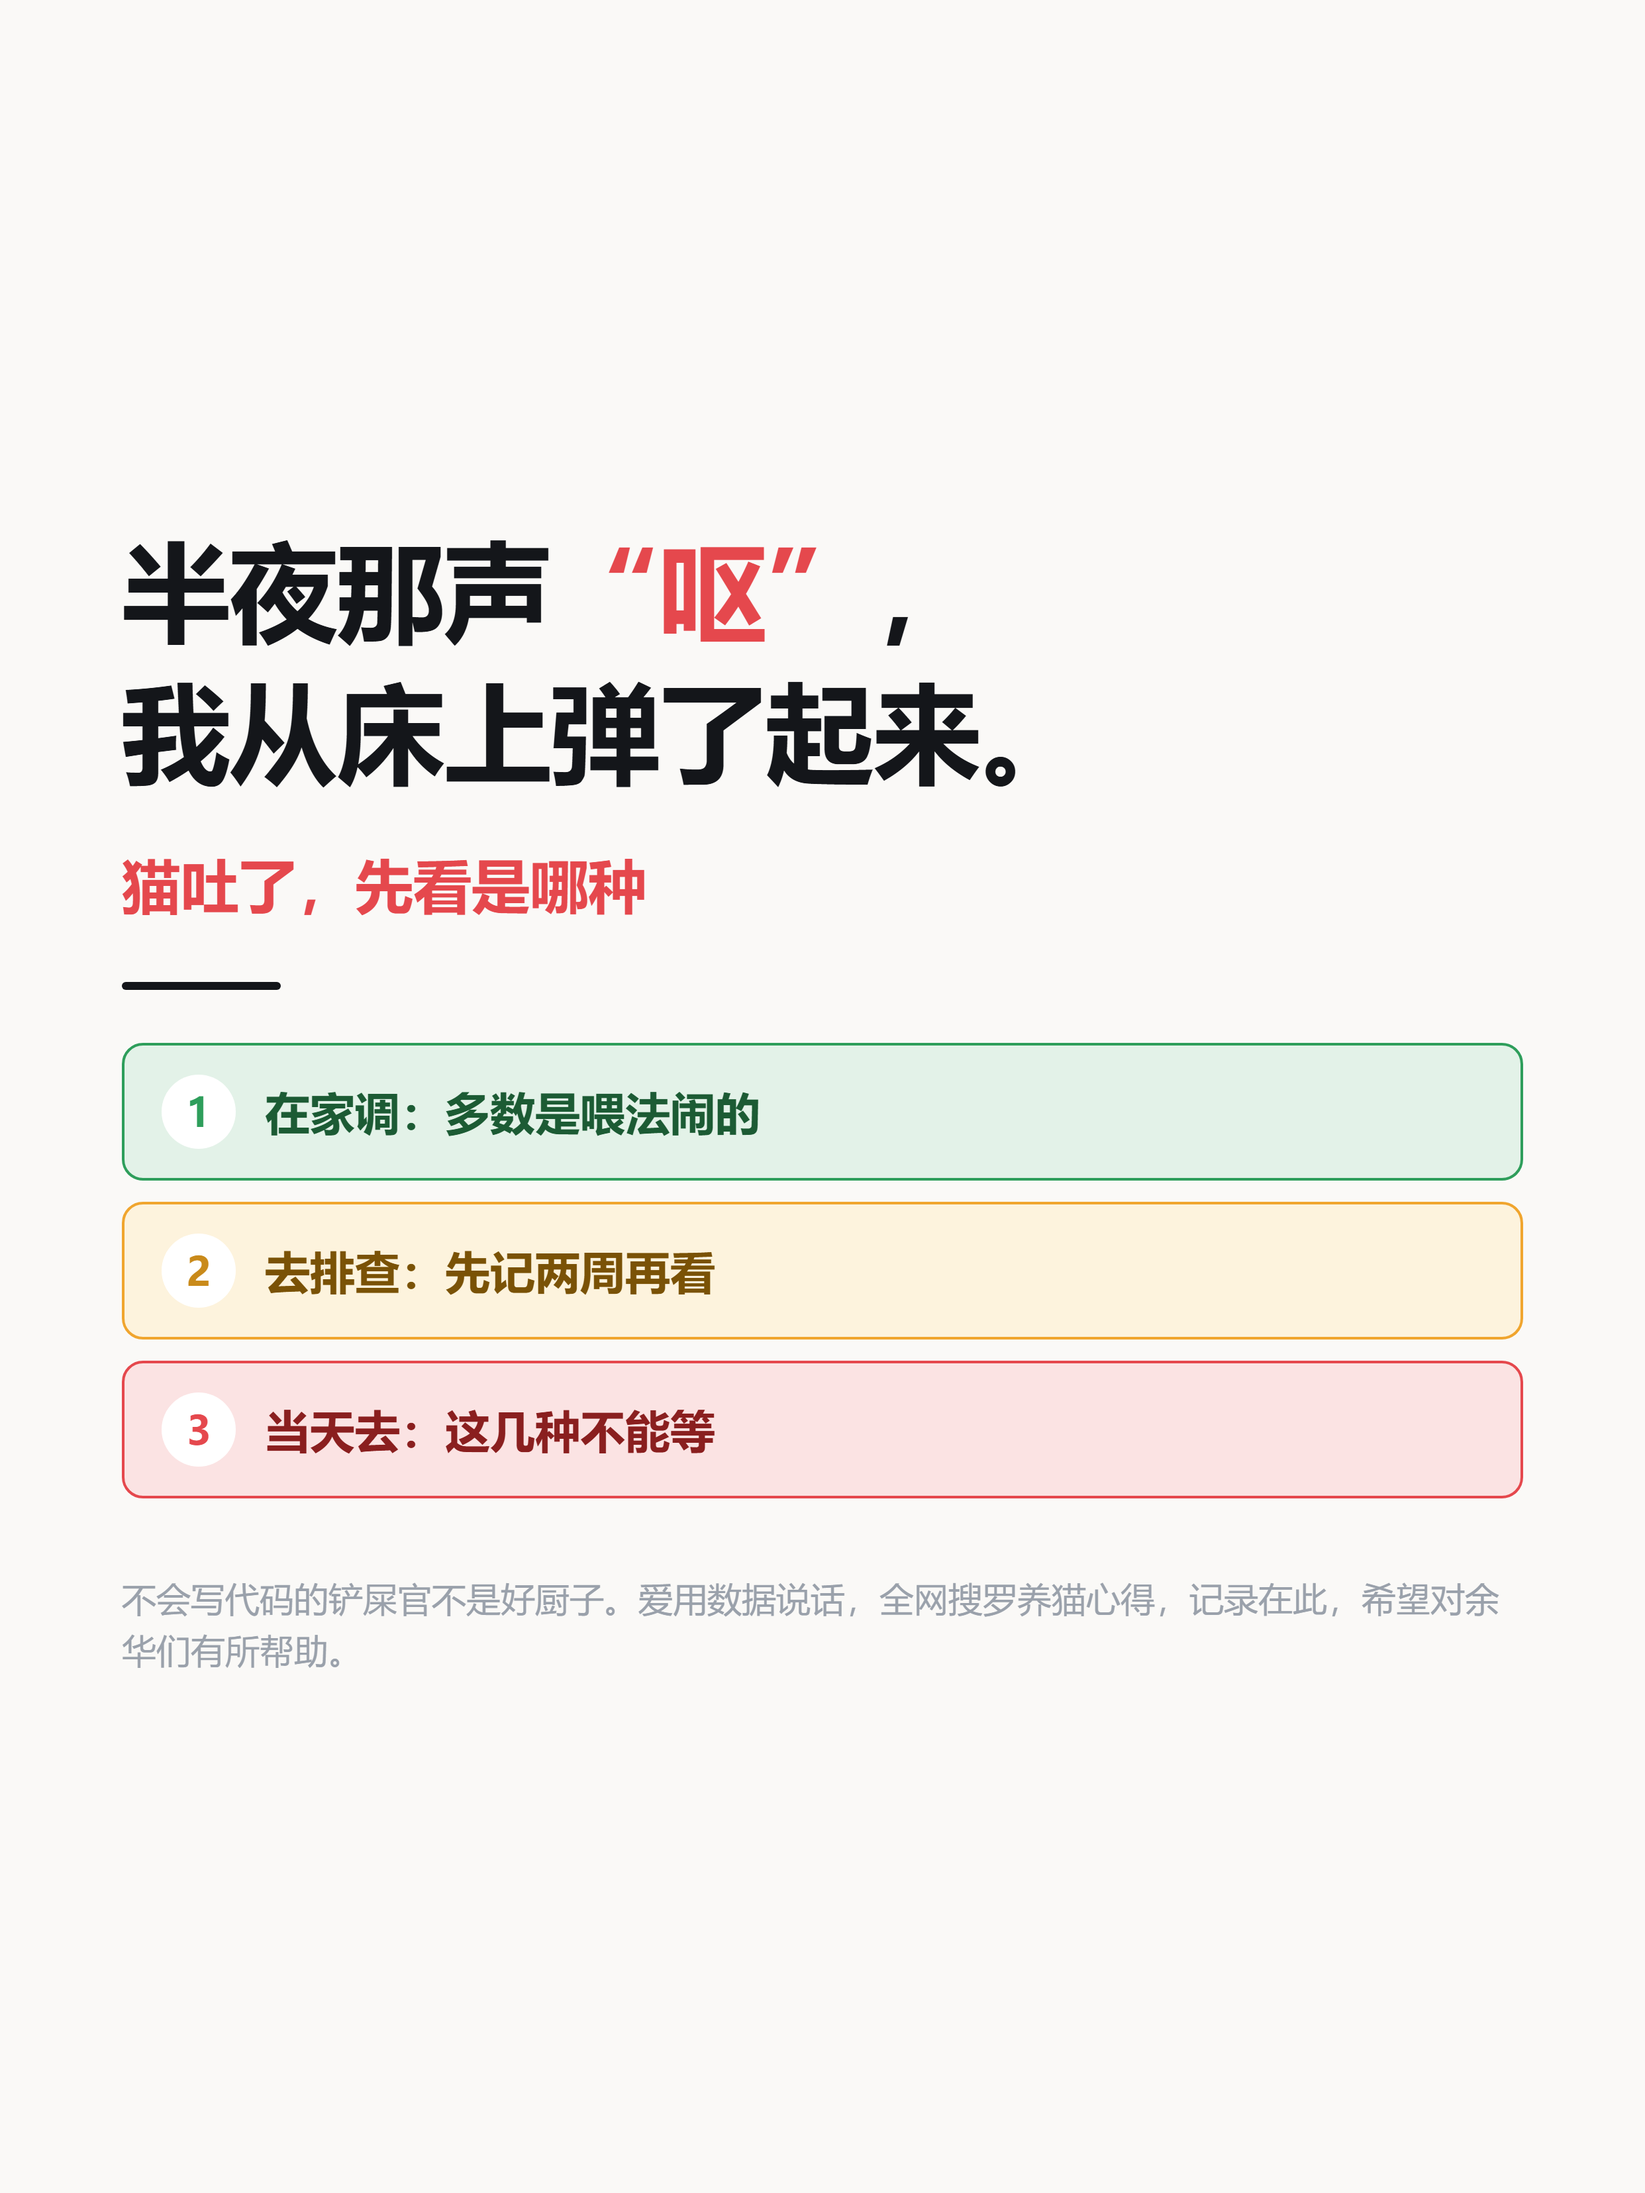
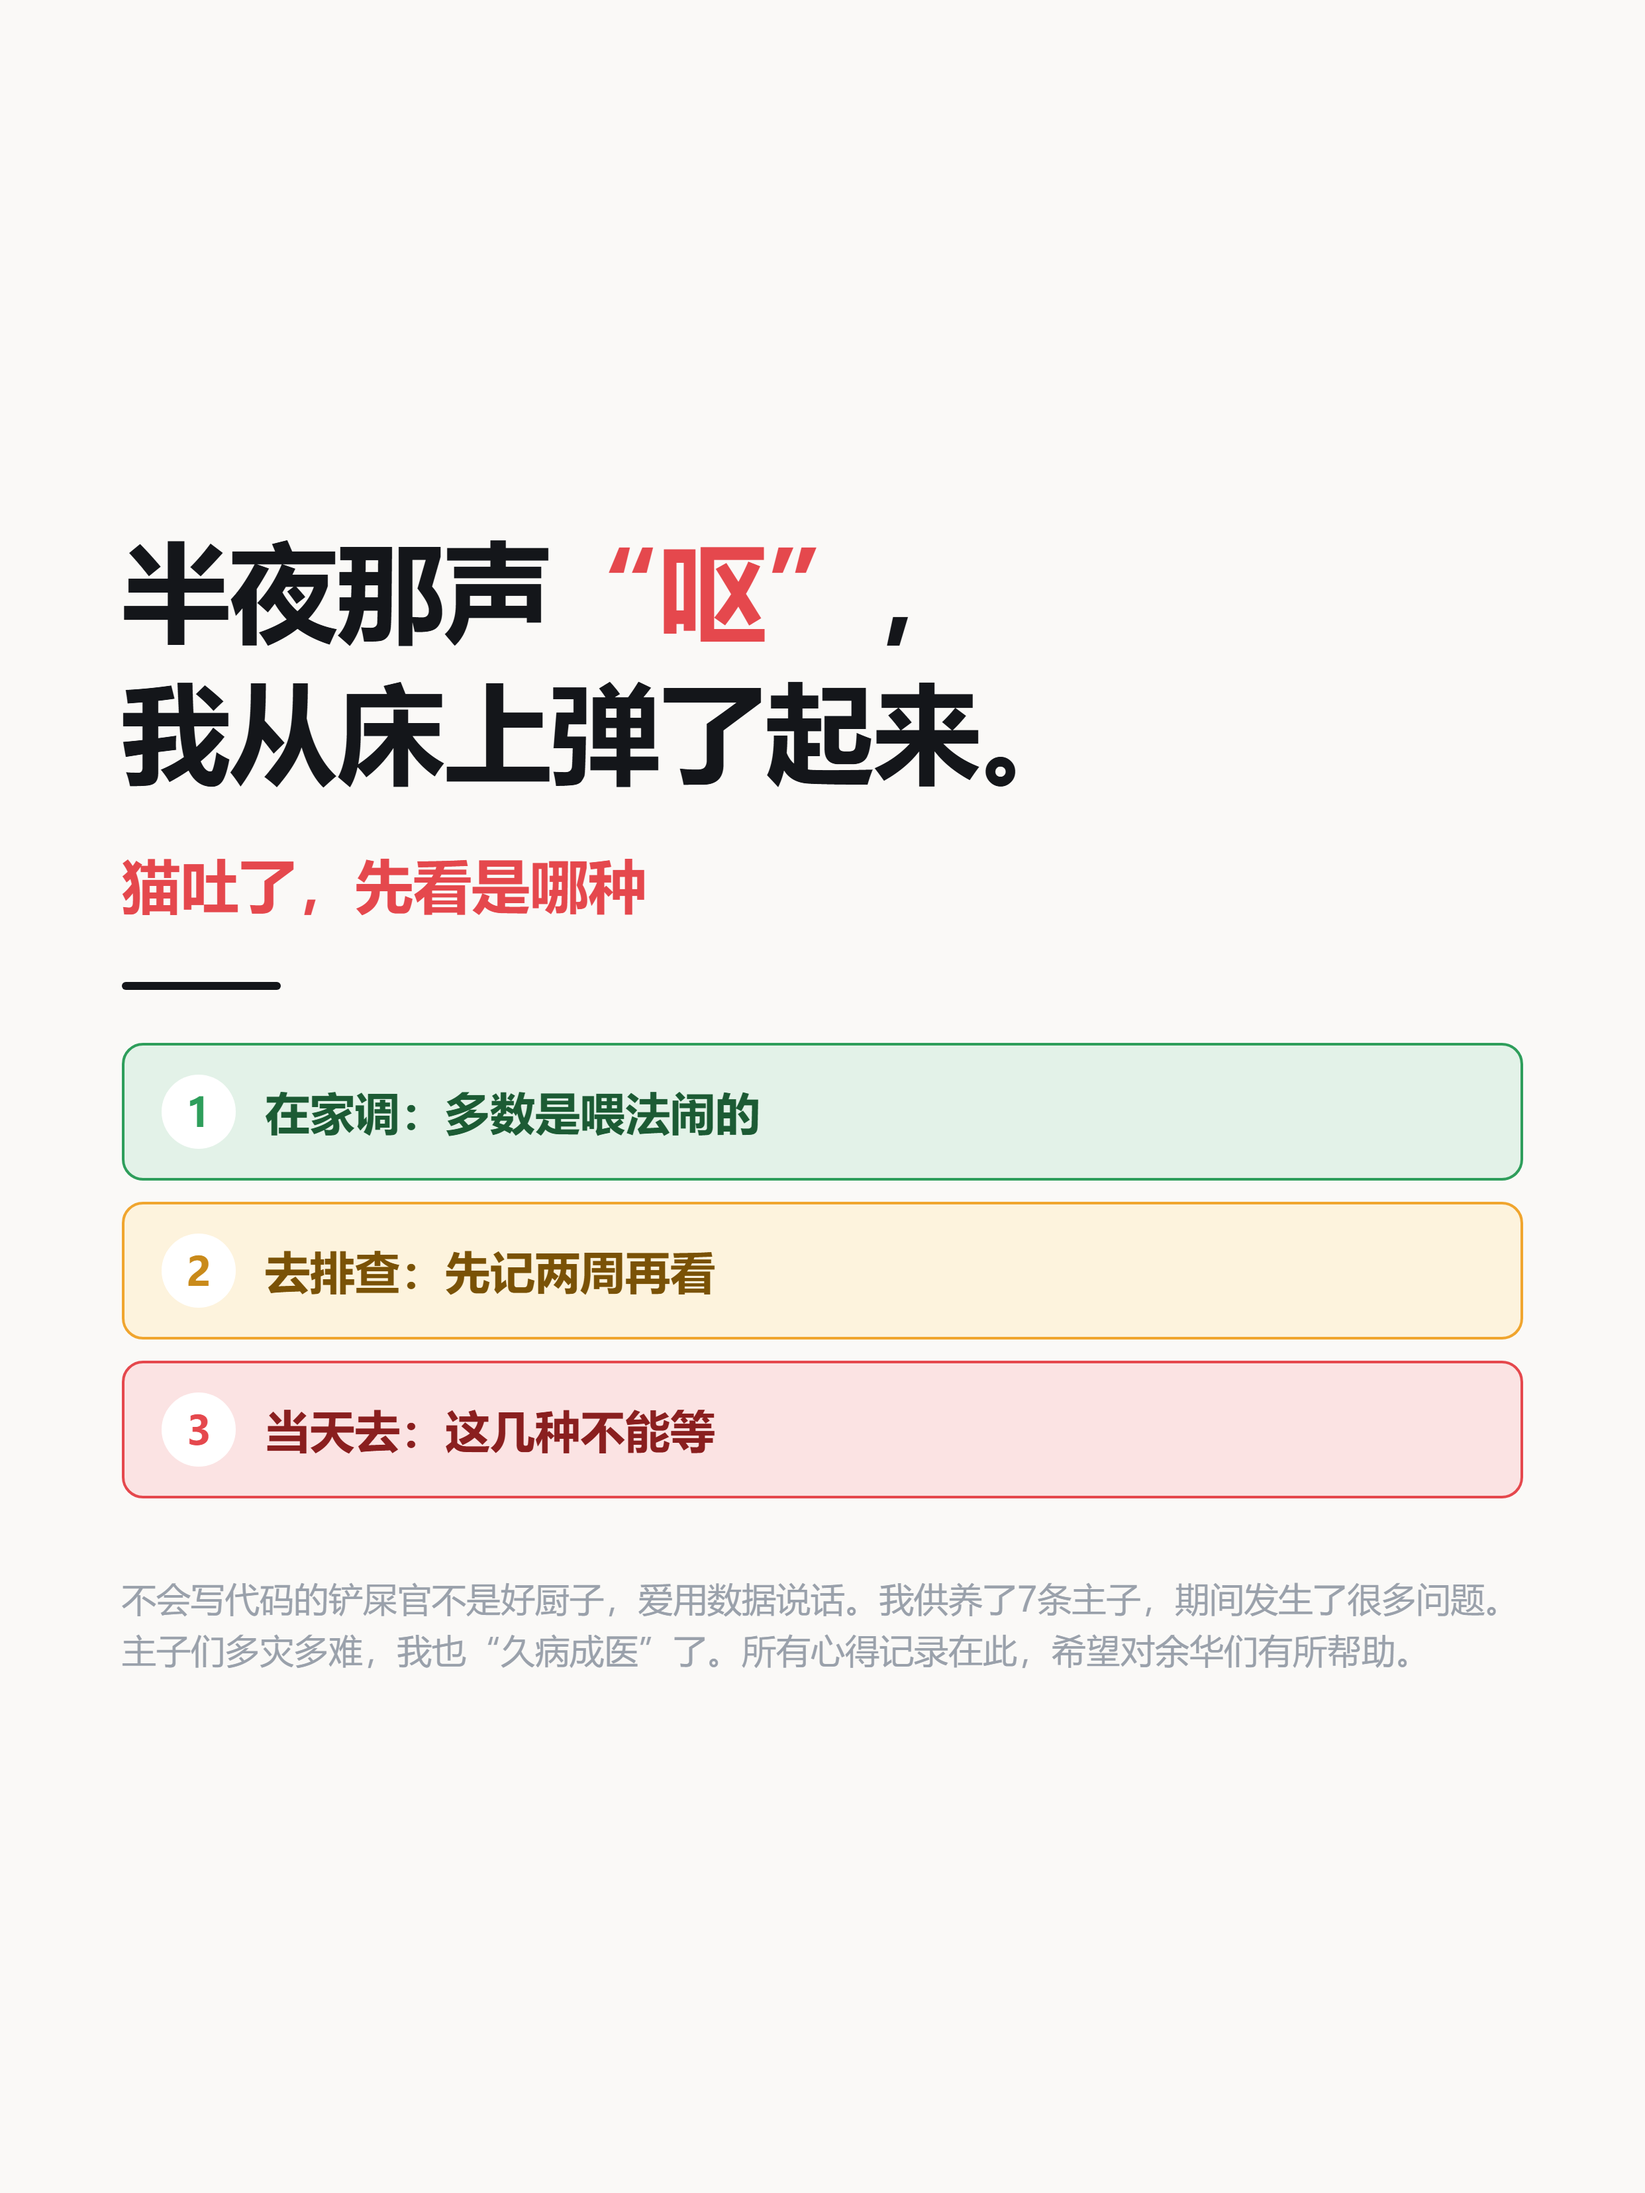
产出：人设落款换新版（7条主子/久病成医）——01/02/03三个主题共18处替换，15张图重截；落款固定放首页情绪图最下方；技能升v2.5.0

diff --git a/40-产出/主题/猫病症自查百科/成果物/02-不吃东西/定稿/二期/二期2-挑食还是恶心.html b/40-产出/主题/猫病症自查百科/成果物/02-不吃东西/定稿/二期/二期2-挑食还是恶心.html
@@ -38,5 +38,5 @@ h1 em { font-style:normal; color:#e5484d; }
   </div>
 
   <div class="note"><b>一句话分法：</b>挑食是“不认这一份”，换一样它就吃；恶心是“想吃但吃不下”，换什么它都不动。<br>拿不准就拍段视频，去医院给医生看，比你嘴上形容准多了。</div>
-  <div class="src">出处：《猫病学》第 5 版 第 1 篇“病与症”第 10 条「厌食」｜不会写代码的铲屎官不是好厨子。症状不等于诊断，最终由兽医排查。</div>
+  <div class="src">出处：《猫病学》第 5 版 第 1 篇“病与症”第 10 条「厌食」｜不会写代码的铲屎官不是好厨子，爱用数据说话。我供养了7条主子，期间发生了很多问题。主子们多灾多难，我也“久病成医”了。所有心得记录在此，希望对余华们有所帮助。｜症状不等于诊断，最终由兽医排查。</div>
 </body></html>

diff --git a/40-产出/主题/猫病症自查百科/成果物/03-软便/定稿/二期/二期2-软便还是真腹泻.html b/40-产出/主题/猫病症自查百科/成果物/03-软便/定稿/二期/二期2-软便还是真腹泻.html
@@ -38,5 +38,5 @@ h1 em { font-style:normal; color:#e5484d; }
   </div>
 
   <div class="note"><b>一句话分法：</b>软便还有形状、精神照旧；真腹泻没形状、水分多，而且往往精神也跟着垮。<br>分不清就拍张照，去医院给医生看，比你嘴上形容准多了。</div>
-  <div class="src">出处：《猫病学》第 5 版 第 1 篇“病与症”第 55 条「腹泻」｜不会写代码的铲屎官不是好厨子。症状不等于诊断，最终由兽医排查。</div>
+  <div class="src">出处：《猫病学》第 5 版 第 1 篇“病与症”第 55 条「腹泻」｜不会写代码的铲屎官不是好厨子，爱用数据说话。我供养了7条主子，期间发生了很多问题。主子们多灾多难，我也“久病成医”了。所有心得记录在此，希望对余华们有所帮助。｜症状不等于诊断，最终由兽医排查。</div>
 </body></html>

diff --git a/40-产出/主题/猫病症自查百科/成果物/01-吐了/定稿/二期/二期2-吐咳反流.html b/40-产出/主题/猫病症自查百科/成果物/01-吐了/定稿/二期/二期2-吐咳反流.html
@@ -70,6 +70,6 @@
   </div>
 
   <div class="note"><b>还有第三种：反流。</b>刚吃完就出来，没有“呕”的动作，是食道的事，也不是胃。<br>拿不准就录段视频，去医院给医生看，比你嘴上形容准多了。</div>
-  <div class="src">出处：《猫病学》第 5 版 第 1 篇“病与症”第 236 条「呕吐」｜不会写代码的铲屎官不是好厨子。症状不等于诊断，最终由兽医排查。</div>
+  <div class="src">出处：《猫病学》第 5 版 第 1 篇“病与症”第 236 条「呕吐」｜不会写代码的铲屎官不是好厨子，爱用数据说话。我供养了7条主子，期间发生了很多问题。主子们多灾多难，我也“久病成医”了。所有心得记录在此，希望对余华们有所帮助。｜症状不等于诊断，最终由兽医排查。</div>
 </body>
 </html>

diff --git a/40-产出/主题/猫病症自查百科/成果物/02-不吃东西/定稿/一期/一期4-六个自测.html b/40-产出/主题/猫病症自查百科/成果物/02-不吃东西/定稿/一期/一期4-六个自测.html
@@ -31,6 +31,6 @@ h1 em { font-style:normal; color:#e5484d; }
 
   <div class="src">
     <b>出处：</b>《2026 iCatCare 猫慢性肾病诊断与管理共识指南》（JFMS 2026）第 5、8 节；《猫病学》第 5 版 第 1 篇“病与症”第 10 条「厌食」。<br>
-    不会写代码的铲屎官不是好厨子。内容按文献底表整理；症状不等于诊断，最终由兽医排查。
+    不会写代码的铲屎官不是好厨子，爱用数据说话。我供养了7条主子，期间发生了很多问题。主子们多灾多难，我也“久病成医”了。所有心得记录在此，希望对余华们有所帮助。｜内容按文献底表整理；症状不等于诊断，最终由兽医排查。
   </div>
 </body></html>

diff --git a/40-产出/主题/猫病症自查百科/成果物/02-不吃东西/定稿/一期/一期0-情绪封面.html b/40-产出/主题/猫病症自查百科/成果物/02-不吃东西/定稿/一期/一期0-情绪封面.html
@@ -27,5 +27,5 @@ body { font-family:"Microsoft YaHei","PingFang SC","Source Han Sans SC",sans-ser
     <div class="blk a"><div class="n">2</div><div>记三天：拍下来带给医生</div></div>
     <div class="blk r"><div class="n">3</div><div>当天去：连水不喝就别等</div></div>
   </div>
-  <div class="who">不会写代码的铲屎官不是好厨子。爱用数据说话，全网搜罗养猫心得，记录在此，希望对余华们有所帮助。</div>
+  <div class="who">不会写代码的铲屎官不是好厨子，爱用数据说话。我供养了7条主子，期间发生了很多问题。主子们多灾多难，我也“久病成医”了。所有心得记录在此，希望对余华们有所帮助。</div>
 </body></html>

diff --git a/40-产出/主题/猫病症自查百科/成果物/03-软便/定稿/一期/一期0-情绪封面.html b/40-产出/主题/猫病症自查百科/成果物/03-软便/定稿/一期/一期0-情绪封面.html
@@ -26,5 +26,5 @@ body { font-family:"Microsoft YaHei","PingFang SC","Source Han Sans SC",sans-ser
     <div class="blk a"><div class="n">2</div><div>记下来：拍照、数次数</div></div>
     <div class="blk r"><div class="n">3</div><div>当天去：带血、幼猫不长个</div></div>
   </div>
-  <div class="who">不会写代码的铲屎官不是好厨子。爱用数据说话，全网搜罗养猫心得，记录在此，希望对余华们有所帮助。</div>
+  <div class="who">不会写代码的铲屎官不是好厨子，爱用数据说话。我供养了7条主子，期间发生了很多问题。主子们多灾多难，我也“久病成医”了。所有心得记录在此，希望对余华们有所帮助。</div>
 </body></html>

diff --git a/40-产出/主题/猫病症自查百科/成果物/01-吐了/定稿/一期/一期0-情绪封面.html b/40-产出/主题/猫病症自查百科/成果物/01-吐了/定稿/一期/一期0-情绪封面.html
@@ -27,5 +27,5 @@ body { font-family:"Microsoft YaHei","PingFang SC","Source Han Sans SC",sans-ser
     <div class="blk a"><div class="n">2</div><div>去排查：先记两周再看</div></div>
     <div class="blk r"><div class="n">3</div><div>当天去：这几种不能等</div></div>
   </div>
-  <div class="who">不会写代码的铲屎官不是好厨子。爱用数据说话，全网搜罗养猫心得，记录在此，希望对余华们有所帮助。</div>
+  <div class="who">不会写代码的铲屎官不是好厨子，爱用数据说话。我供养了7条主子，期间发生了很多问题。主子们多灾多难，我也“久病成医”了。所有心得记录在此，希望对余华们有所帮助。</div>
 </body></html>

diff --git a/40-产出/主题/猫病症自查百科/成果物/02-不吃东西/定稿/二期/二期5-你管它叫什么.html b/40-产出/主题/猫病症自查百科/成果物/02-不吃东西/定稿/二期/二期5-你管它叫什么.html
@@ -28,5 +28,5 @@ h1 em { font-style:normal; color:#e5484d; }
 <div class="grp"><div class="gl">网上的说法</div><div class="chips"><span class="chip c3">拒碗</span><span class="chip c3">绝食抗议</span><span class="chip c3">饭来张口失败</span></div></div>
   </div>
 
-  <div class="who">不会写代码的铲屎官不是好厨子。爱用数据说话，全网搜罗养猫心得，记录在此，希望对余华们有所帮助。</div>
+  <div class="who">不会写代码的铲屎官不是好厨子，爱用数据说话。我供养了7条主子，期间发生了很多问题。主子们多灾多难，我也“久病成医”了。所有心得记录在此，希望对余华们有所帮助。</div>
 </body></html>

diff --git a/40-产出/主题/猫病症自查百科/成果物/01-吐了/定稿/一期/一期4-七个自测.html b/40-产出/主题/猫病症自查百科/成果物/01-吐了/定稿/一期/一期4-七个自测.html
@@ -42,7 +42,7 @@
 
   <div class="src">
     <b>出处：</b>《猫病学》第 5 版 第 1 篇“病与症”第 236 条「呕吐」｜《2026 iCatCare 猫慢性肾病诊断与管理共识指南》（JFMS 2026）第 5、8 节。<br>
-    不会写代码的铲屎官不是好厨子。内容按文献底表整理；症状不等于诊断，最终由兽医排查。
+    不会写代码的铲屎官不是好厨子，爱用数据说话。我供养了7条主子，期间发生了很多问题。主子们多灾多难，我也“久病成医”了。所有心得记录在此，希望对余华们有所帮助。｜内容按文献底表整理；症状不等于诊断，最终由兽医排查。
   </div>
 </body>
 </html>

diff --git a/40-产出/主题/猫病症自查百科/成果物/02-不吃东西/定稿/二期/二期6-小技巧9条.html b/40-产出/主题/猫病症自查百科/成果物/02-不吃东西/定稿/二期/二期6-小技巧9条.html
@@ -31,5 +31,5 @@ h1 em { font-style:normal; color:#e5484d; }
 <div class="it"><div class="no">9</div><div class="tx">粮碗旁放条干毛巾，<b>每天看碗底有没有剩、有没有口水黏住的痕迹</b></div></div>
   </div>
 
-  <div class="who">不会写代码的铲屎官不是好厨子。爱用数据说话，全网搜罗养猫心得，记录在此，希望对余华们有所帮助。</div>
+  <div class="who">不会写代码的铲屎官不是好厨子，爱用数据说话。我供养了7条主子，期间发生了很多问题。主子们多灾多难，我也“久病成医”了。所有心得记录在此，希望对余华们有所帮助。</div>
 </body></html>

diff --git a/40-产出/主题/猫病症自查百科/成果物/03-软便/定稿/一期/一期4-七个自测.html b/40-产出/主题/猫病症自查百科/成果物/03-软便/定稿/一期/一期4-七个自测.html
@@ -32,6 +32,6 @@ h1 em { font-style:normal; color:#e5484d; }
 
   <div class="src">
     <b>出处：</b>《猫病学》第 5 版 第 1 篇“病与症”第 55 条「腹泻」。<br>
-    不会写代码的铲屎官不是好厨子。内容按文献底表整理；症状不等于诊断，最终由兽医排查。
+    不会写代码的铲屎官不是好厨子，爱用数据说话。我供养了7条主子，期间发生了很多问题。主子们多灾多难，我也“久病成医”了。所有心得记录在此，希望对余华们有所帮助。｜内容按文献底表整理；症状不等于诊断，最终由兽医排查。
   </div>
 </body></html>

diff --git a/40-产出/主题/猫病症自查百科/成果物/03-软便/定稿/二期/二期6-小技巧9条.html b/40-产出/主题/猫病症自查百科/成果物/03-软便/定稿/二期/二期6-小技巧9条.html
@@ -31,5 +31,5 @@ h1 em { font-style:normal; color:#e5484d; }
 <div class="it"><div class="no">9</div><div class="tx"><b>人用止泻药一律不给</b>，猫的用药只能由宠物医院定</div></div>
   </div>
 
-  <div class="who">不会写代码的铲屎官不是好厨子。爱用数据说话，全网搜罗养猫心得，记录在此，希望对余华们有所帮助。</div>
+  <div class="who">不会写代码的铲屎官不是好厨子，爱用数据说话。我供养了7条主子，期间发生了很多问题。主子们多灾多难，我也“久病成医”了。所有心得记录在此，希望对余华们有所帮助。</div>
 </body></html>
